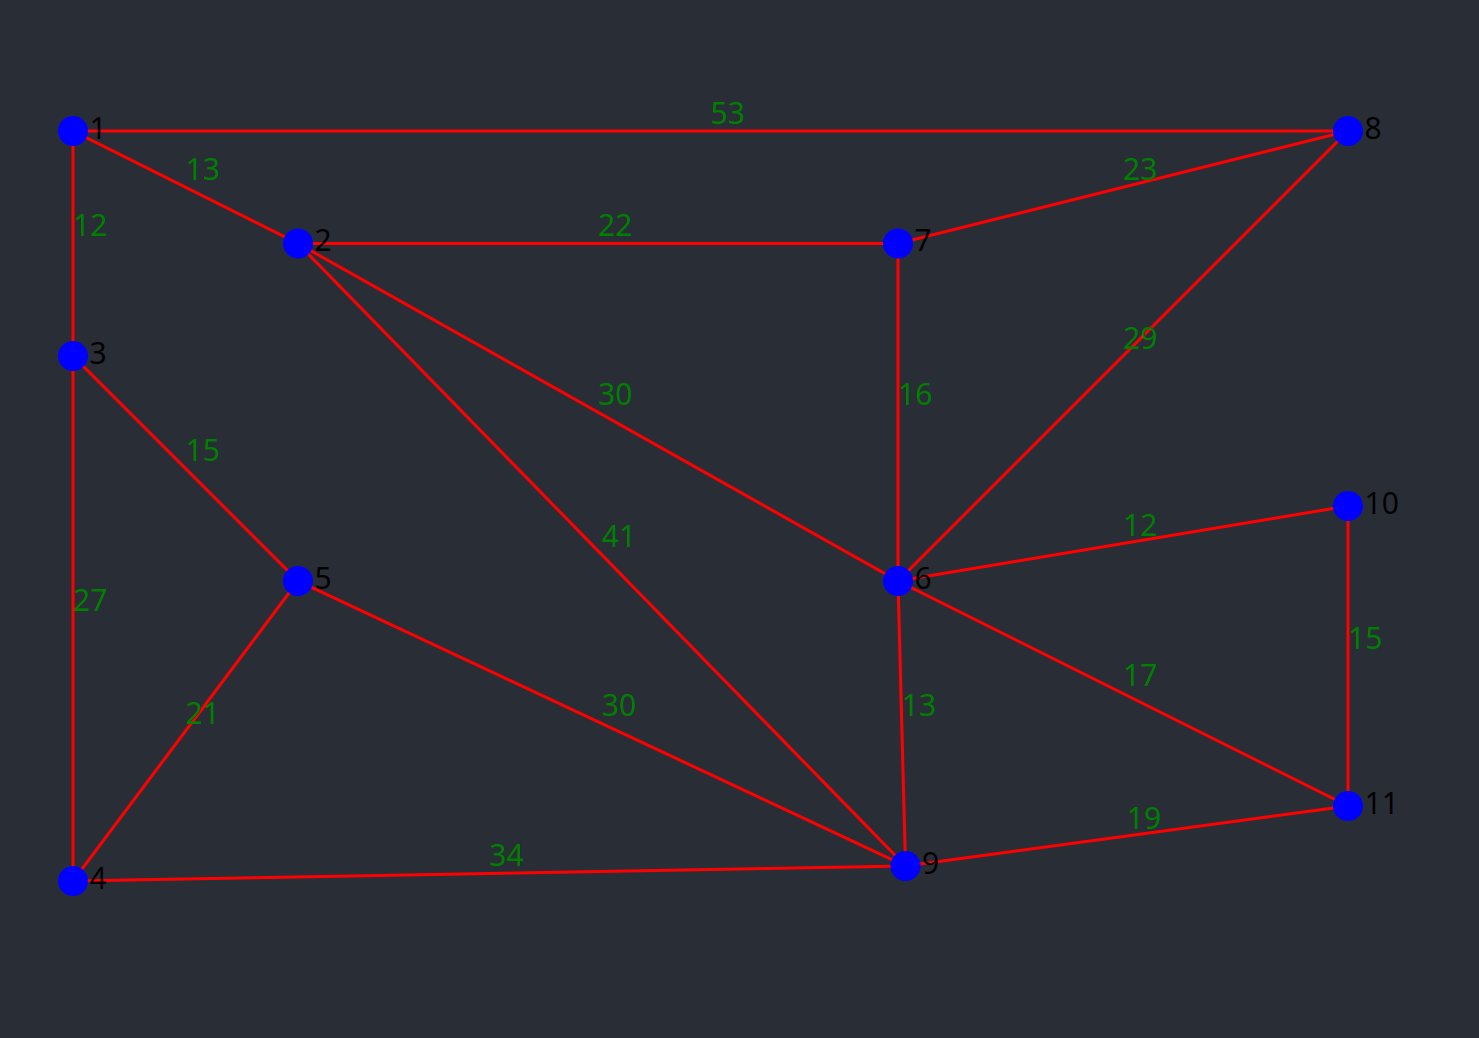
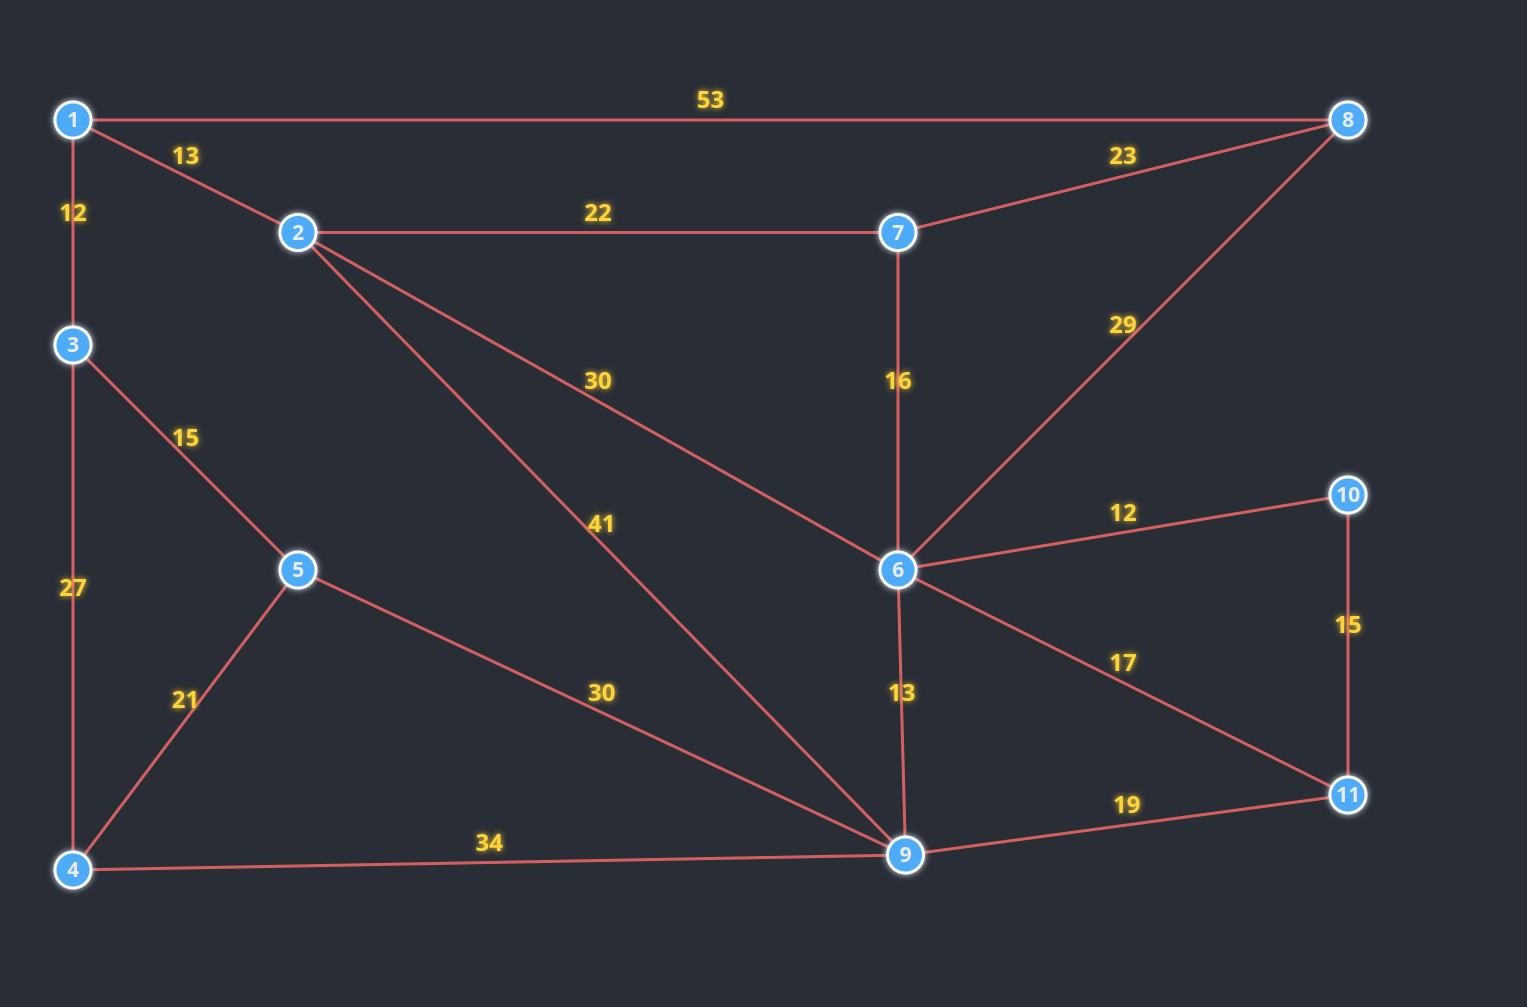
added color effects

diff --git a/project/src/assets/Components/SampleGraphs/SampleGraphCard.jsx b/project/src/assets/Components/SampleGraphs/SampleGraphCard.jsx
@@ -10,8 +10,33 @@ function SampleGraphCard(props) {
     if (animateGraph) return;
     const svg = d3.select(svgRef.current);
     svg.selectAll("*").remove(); // Clear previous SVG content
-
-    // Draw edges (lines)
+  
+    // Define color palette
+    const nodeColor = "#4dabf7";
+    const nodeStrokeColor = "#f8f9fa";
+    const edgeColor = "#ff6b6b";
+    const edgeTextColor = "#ffd43b";
+    const hoverColor = "#69db7c";
+    const textColor = "#e9ecef";
+  
+    // Define glow filter
+    const defs = svg.append("defs");
+    const filter = defs.append("filter")
+      .attr("id", "glow")
+      .attr("x", "-50%")
+      .attr("y", "-50%")
+      .attr("width", "200%")
+      .attr("height", "200%");
+  
+    filter.append("feGaussianBlur")
+      .attr("stdDeviation", "2")
+      .attr("result", "coloredBlur");
+  
+    const feMerge = filter.append("feMerge");
+    feMerge.append("feMergeNode").attr("in", "coloredBlur");
+    feMerge.append("feMergeNode").attr("in", "SourceGraphic");
+  
+    // Draw edges
     svg.selectAll("line")
       .data(edges)
       .enter()
@@ -20,27 +45,51 @@ function SampleGraphCard(props) {
       .attr("y1", d => nodes.find(n => n.id === d.source).y)
       .attr("x2", d => nodes.find(n => n.id === d.target).x)
       .attr("y2", d => nodes.find(n => n.id === d.target).y)
-      .attr("stroke", "red")
-      .attr("stroke-width", 2);
-
-    // Add distances (text on edges)
-    svg.selectAll("text")
+      .attr("stroke", edgeColor)
+      .attr("stroke-width", 2)
+      .attr("stroke-opacity", 0.8)
+      .on("mouseover", function () {
+        d3.select(this)
+          .attr("stroke", hoverColor)
+          .attr("stroke-width", 3);
+      })
+      .on("mouseout", function () {
+        d3.select(this)
+          .attr("stroke", edgeColor)
+          .attr("stroke-width", 2);
+      });
+  
+    // Edge distance labels
+    svg.selectAll("text.edge_labels")
       .data(edges)
       .enter()
       .append("text")
-      .attr('class' , 'edge_labels')
+      .attr("class", "edge_labels")
       .attr("x", d => (nodes.find(n => n.id === d.source).x + nodes.find(n => n.id === d.target).x) / 2)
       .attr("y", d => (nodes.find(n => n.id === d.source).y + nodes.find(n => n.id === d.target).y) / 2)
-      .attr("fill", "green")
-      .attr("font-size", "20px")
-      .attr("dy", -5) // Offset for better visibility
+      .attr("fill", edgeTextColor)
+      .attr("font-size", "16px")
+      .attr("font-weight", "bold")
+      .attr("text-anchor", "middle")
+      .attr("dy", -8)
       .text(d => d.distance)
-      .style("cursor", "pointer") // Make it look clickable
+      .style("cursor", "pointer")
+      .style("filter", "url(#glow)")
+      .on("mouseover", function () {
+        d3.select(this)
+          .attr("fill", hoverColor)
+          .attr("font-size", "18px");
+      })
+      .on("mouseout", function () {
+        d3.select(this)
+          .attr("fill", edgeTextColor)
+          .attr("font-size", "16px");
+      })
       .on("click", (event, d) => {
         const newDistance = prompt(`Enter new weight for edge (${d.source} - ${d.target}):`, d.distance);
         if (newDistance !== null && !isNaN(newDistance)) {
-          setEdges((prevEdges) =>
-            prevEdges.map((edge) =>
+          setEdges(prevEdges =>
+            prevEdges.map(edge =>
               edge.source === d.source && edge.target === d.target
                 ? { ...edge, distance: parseInt(newDistance, 10) }
                 : edge
@@ -48,29 +97,46 @@ function SampleGraphCard(props) {
           );
         }
       });
-
-    // Draw nodes (circles)
+  
+    // Draw nodes
     svg.selectAll("circle")
       .data(nodes)
       .enter()
       .append("circle")
       .attr("cx", d => d.x)
       .attr("cy", d => d.y)
-      .attr("r", 10)
-      .attr("fill", "blue");
-
-    // Add node labels
-    svg.selectAll("node-label")
+      .attr("r", 12)
+      .attr("fill", nodeColor)
+      .attr("stroke", nodeStrokeColor)
+      .attr("stroke-width", 2)
+      .style("filter", "url(#glow)")
+      .on("mouseover", function () {
+        d3.select(this)
+          .attr("fill", hoverColor)
+          .attr("r", 14);
+      })
+      .on("mouseout", function () {
+        d3.select(this)
+          .attr("fill", nodeColor)
+          .attr("r", 12);
+      });
+  
+    // Node labels
+    svg.selectAll("text.node-labels")
       .data(nodes)
       .enter()
       .append("text")
-      .attr("x", d => d.x + 11)
-      .attr("y", d => d.y + 5)
-      .attr("font-size", "20px")
-      .attr("fill", "black")
+      .attr("class", "node-labels")
+      .attr("x", d => d.x)
+      .attr("y", d => d.y + 1)
+      .attr("font-size", "14px")
+      .attr("font-weight", "bold")
+      .attr("text-anchor", "middle")
+      .attr("dominant-baseline", "middle")
+      .attr("fill", textColor)
       .text(d => `${d.id}`);
-
-  }, [edges]);
+  }, [edges, nodes]);
+  
 
   const [animateGraph, setAnimateGraph] = useState(false);
   const svgRef2 = useRef(null)
@@ -87,6 +153,12 @@ function SampleGraphCard(props) {
     const initialScale = 0.5;
     const finalScale = 0.3; // Shrinking effect
   
+
+    // Define color palette
+    const nodeColor = "#4dabf7";
+    const edgeColor = "#ff6b6b";
+
+
     // Clone edges
     const clonedEdges = svgClone.selectAll("line")
       .data(edges)
@@ -97,9 +169,10 @@ function SampleGraphCard(props) {
       .attr("x2", d => nodes.find(n => n.id === d.target).x-500)
       .attr("y2", d => nodes.find(n => n.id === d.target).y-500)
       .attr("stroke", "red")
-      .attr("stroke-width", 4)
-      .attr("transform", `translate(${centerX}, ${centerY}) scale(${initialScale})`);
-  
+      .attr("stroke-width", 2)
+      .attr("transform", `translate(${centerX}, ${centerY}) scale(${initialScale})`)
+    
+
     // Clone nodes
     const clonedNodes = svgClone.selectAll("circle")
       .data(nodes)
@@ -108,13 +181,15 @@ function SampleGraphCard(props) {
       .attr("cx", d => d.x-500)
       .attr("cy", d => d.y-500)
       .attr("r", 15)
-      .attr("fill", "blue")
+      .attr("fill", nodeColor)
+      .attr("stroke-width", 2)
       .attr("transform", `translate(${centerX}, ${centerY}) scale(${initialScale})`);
   
-    const edgeweight = svgClone.selectAll("text")
+    const edgeweight = svgClone.selectAll("text.edge_labels")
       .data(edges)
       .enter()
       .append("text")
+      .attr("class", "edge_labels")
       .attr("x", d => ((nodes.find(n => n.id === d.source).x + nodes.find(n => n.id === d.target).x) / 2)-500)
       .attr("y", d => ((nodes.find(n => n.id === d.source).y + nodes.find(n => n.id === d.target).y) / 2)-500)
       .attr("fill", "green")
@@ -210,7 +285,7 @@ function SampleGraphCard(props) {
             y2: y1 + (i + 1) * segmentLengthY
         });
     }
-
+    const edgeColor = "#ff6b6b";
     const brokenLines = svgElement.selectAll(".broken-line")
         .data(segments)
         .enter().append("line")
@@ -218,7 +293,8 @@ function SampleGraphCard(props) {
         .attr("y1", d => d.y1)
         .attr("x2", d => d.x2)
         .attr("y2", d => d.y2)
-        .attr("stroke", "red")
+        .attr("stroke", edgeColor)
+        .attr("stroke-opacity", 0.8)
         .attr("stroke-width", 2)
         .attr("class", "broken-line");
 
@@ -352,7 +428,7 @@ function SampleGraphCard(props) {
     if (!svgElement.node()) return;
 
     let localTobeAdded = tobeAdded;
-
+    const edgeColor = "#ff6b6b";
     for (let i = position; i < edges.length; i++) {
         if (localTobeAdded <= 0) {
           console.log("Graph is completed");
@@ -375,7 +451,7 @@ function SampleGraphCard(props) {
                 .attr("y1", nodes.find(n => n.id === edges[i].source).y)
                 .attr("x2", nodes.find(n => n.id === edges[i].target).x)
                 .attr("y2", nodes.find(n => n.id === edges[i].target).y)
-                .attr("stroke", "red")
+                .attr("stroke", edgeColor)
                 .attr("stroke-width", 2);
             localTobeAdded--;
             setnode_a(edges[i].source);
